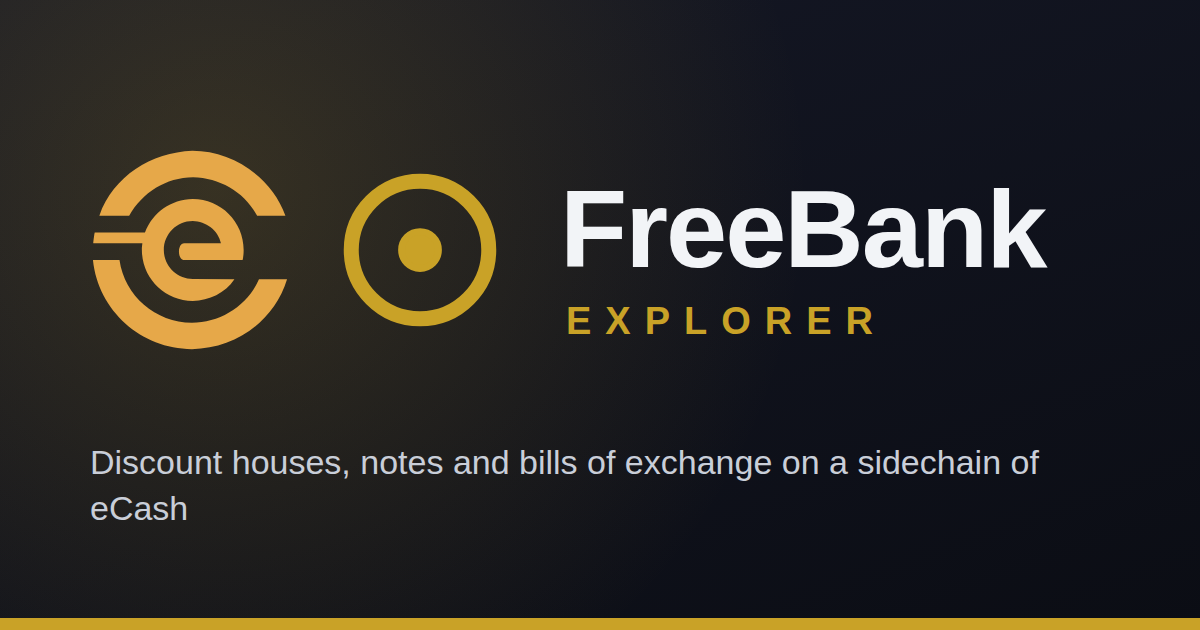
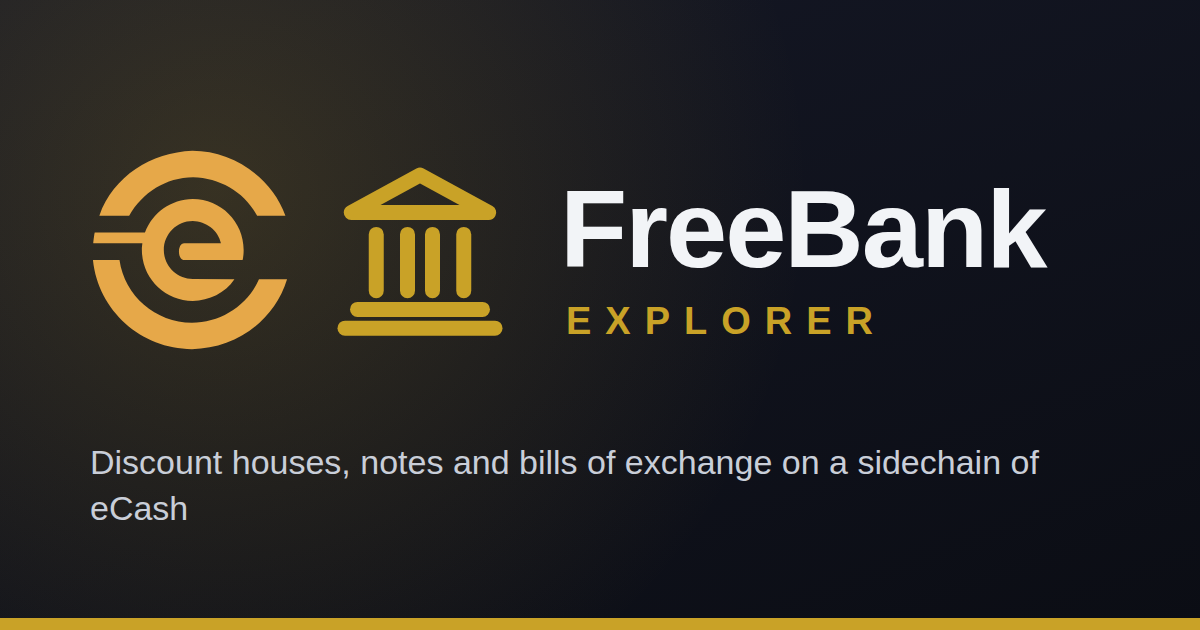
FreeBank: a bank mark (🏦) in place of the sun; space after a house's number
The mark, pool logo and link preview are a bank: a pediment over four
columns on a stepped base. Houses, the dashboard's house list and the gold
page lost the space between two tags (Angular drops whitespace-only text):
a margin instead.

Claude-Session: https://claude.ai/code/session_016ScJL4vwUZDmPaBe3oCFtx

Changed region(s): [[0.2775, 0.2714, 0.4317, 0.5429]]

diff --git a/frontend/src/app/chain/marks.ts b/frontend/src/app/chain/marks.ts
@@ -36,11 +36,8 @@ export const SIDECHAIN_MARKS: Record<string, Pick<ChainProfile, 'mark' | 'markRe
     'M16 11a5 5 0 1 0 0 10 5 5 0 1 0 0-10',
     'M16 3v4M16 25v4M3 16h4M25 16h4M7 7l2.5 2.5M22.5 22.5L25 25M25 7l-2.5 2.5M9.5 22.5L7 25',
   ] },
-  // FreeBank's own mark, the sun ☉ (U+2609, the gold unit of account: freebank-explorer
-  // frontend/src/resources/freebank/freebank-sun.svg: a ring of r 17 and a disc of r 5.5 in 64x64), scaled to fill this
-  // grid as the other marks do: the ring of r 11 as a stroke, the disc as two small stroked circles (r 2.3 and 1.2: a
-  // filled disc of r 3.5, the sun's proportion, in a stroke-only mark)
-  freebank: { mark: ['M16 5a11 11 0 1 1 0 22 11 11 0 1 1 0-22z', 'M16 13.7a2.3 2.3 0 1 1 0 4.6 2.3 2.3 0 1 1 0-4.6z', 'M16 14.8a1.2 1.2 0 1 1 0 2.4 1.2 1.2 0 1 1 0-2.4z'] },
+  // FreeBank: a bank (🏦), a pediment over four columns on a stepped base
+  freebank: { mark: ['M16 4 27 10H5z', 'M9 13.5v9', 'M14 13.5v9', 'M18 13.5v9', 'M23 13.5v9', 'M6 25.5h20', 'M4 28.5h24'] },
   // Flush: water, three waves (a placeholder until Flush has a mark of its own)
   // Flush's own mark, the "tornado" (backbone-flush src/webui/app/src/chain/chain.json brand.mark;
   // ~/skydoge/media/flush/mark/variants.json)

diff --git a/frontend/src/app/chain/modules/freebank/pages/gold.pages.ts b/frontend/src/app/chain/modules/freebank/pages/gold.pages.ts
@@ -49,7 +49,7 @@ const ASSETS_PAGE = 100;
               <tr><td>{{ x.id }}</td><td class="mono" [title]="x.pubkey">{{ fx.shortId(x.pubkey, 8) }}</td>
                 <td><a [routerLink]="['/tx', x.bondtxid]" [fragment]="'vout=' + x.bondvout" class="mono">{{ fx.shortId(x.bondtxid, 6) }}:{{ x.bondvout }}</a></td>
                 <td><a [routerLink]="['/block', x.bondheight]">{{ x.bondheight | number }}</a></td>
-                <td>@if (x.lastsubmitheight) {<a [routerLink]="['/block', x.lastsubmitheight]">{{ x.lastsubmitheight | number }}</a> <span class="hint">{{ x.blockssincesubmit | number }} blocks ago</span>} @else {<span class="muted">never</span>}</td>
+                <td>@if (x.lastsubmitheight) {<a [routerLink]="['/block', x.lastsubmitheight]">{{ x.lastsubmitheight | number }}</a><span class="hint ms-2">{{ x.blockssincesubmit | number }} blocks ago</span>} @else {<span class="muted">never</span>}</td>
                 <td>@if (x.unbondrequestheight) {since {{ x.unbondrequestheight | number }}} @else {<span class="muted">–</span>}</td></tr>
             } @empty {<tr><td colspan="6" class="empty">No submitter has bonded yet.</td></tr>}
           </tbody></table>

diff --git a/frontend/src/app/chain/modules/freebank/pages/houses.pages.ts b/frontend/src/app/chain/modules/freebank/pages/houses.pages.ts
@@ -52,7 +52,7 @@ function deadline(h: House, tip: number | null): { label: string; late: boolean 
             <tbody>
               @for (h of d.houses; track h.id) {
                 <tr>
-                  <td class="nowrap"><a [routerLink]="['/house', h.id]">#{{ h.id }}</a> <span class="muted">{{ h.classid }}</span></td>
+                  <td class="nowrap"><a [routerLink]="['/house', h.id]">#{{ h.id }}</a><span class="muted ms-2">{{ h.classid }}</span></td>
                   <td class="nowrap">{{ fx.houseType(h.type) }}@if (h.type === 'members') {<span class="muted"> · {{ h.member_records ?? 0 }}</span>}</td>
                   <td class="nowrap"><span class="pill" [ngClass]="fx.statusTone(h.effective_status)" title="Effective status at the tip">{{ fx.houseStatus(h.effective_status) }}</span>
                     @if (h.status !== h.effective_status) {<span class="pill ms-1" title="Stored status">{{ fx.houseStatus(h.status) }}</span>}

diff --git a/frontend/src/app/chain/modules/freebank/views/freebank-widget.component.ts b/frontend/src/app/chain/modules/freebank/views/freebank-widget.component.ts
@@ -85,7 +85,7 @@ export type FreebankWidgetKind = 'freebank-chain' | 'freebank-credit' | 'freeban
             @case ('freebank-houses') {
               <table class="rows"><tbody>
                 @for (h of d.top; track h.id) {
-                  <tr><td><a [routerLink]="['/house', h.id]">#{{ h.id }}</a> <span class="muted">{{ h.classid }}</span></td>
+                  <tr><td><a [routerLink]="['/house', h.id]">#{{ h.id }}</a><span class="muted ms-2">{{ h.classid }}</span></td>
                     <td><span class="pill" [ngClass]="fx.statusTone(h.effective_status)">{{ fx.houseStatus(h.effective_status) }}</span></td>
                     <td class="text-end">{{ fx.ecx(h.activeescrow, 4) }} <span class="muted">ECX</span></td>
                     <td class="text-end" title="Attested reserve ratio">{{ fx.bps(h.attestedratiobps) }}</td></tr>

diff --git a/frontend/src/app/chain/modules/freebank/index.ts b/frontend/src/app/chain/modules/freebank/index.ts
@@ -29,7 +29,7 @@ const SEARCH: [RegExp, string][] = [[/^(?:house|h)\s*#?\s*(\d{1,9})$/i, '/house'
 const freebank: ChainFrontendModule = {
   profile: {
     id: 'freebank', kind: 'freebank', name: 'FreeBank', tagline: 'Discount houses, notes and bills of exchange on a sidechain of eCash',
-    unit: 'ECX', subunit: 'sats', slot: 130, mainchain: false, color: '#c9a227', // FreeBank's gold (the sun of its mark)
+    unit: 'ECX', subunit: 'sats', slot: 130, mainchain: false, color: '#c9a227', // FreeBank's gold
     ...SIDECHAIN_MARKS.freebank,
     blockWeightUnits: 4000000,
   },

diff --git a/chains/previews.py b/chains/previews.py
@@ -15,7 +15,7 @@ CHAINS = {
     'truthcoin': ('Truthcoin', '#7bd88f', 'A prediction market sidechain of eCash', ['M28 16a12 12 0 1 1-24 0 12 12 0 1 1 24 0', 'M10.5 16.5l3.5 3.5 7-7.5'], []),
     'zside': ('zSide', '#f26b9c', 'A shielded sidechain of eCash', ['M16 4l10 4v7c0 6-4 10.5-10 13-6-2.5-10-7-10-13V8z', 'M16 12a3 3 0 0 0-1 5.8V21h2v-3.2A3 3 0 0 0 16 12z'], []),
     'flush': ('Flush', '#7d94ab', 'A sidechain of eCash: its DEX, assets and token launches', ['M4 6h24', 'M8 12.5h17', 'M12 19h10', 'M15 25.5h4'], []),
-    'freebank': ('FreeBank', '#c9a227', 'Discount houses, notes and bills of exchange on a sidechain of eCash', ['M16 5a11 11 0 1 1 0 22 11 11 0 1 1 0-22z', 'M16 13.7a2.3 2.3 0 1 1 0 4.6 2.3 2.3 0 1 1 0-4.6z', 'M16 14.8a1.2 1.2 0 1 1 0 2.4 1.2 1.2 0 1 1 0-2.4z'], []),
+    'freebank': ('FreeBank', '#c9a227', 'Discount houses, notes and bills of exchange on a sidechain of eCash', ['M16 4 27 10H5z', 'M9 13.5v9', 'M14 13.5v9', 'M18 13.5v9', 'M23 13.5v9', 'M6 25.5h20', 'M4 28.5h24'], []),
     'coinshift': ('Coinshift', '#ff8a3d', 'A swap sidechain of eCash', ['M7 16a9 9 0 0 1 15-6.7', 'M22 5v5h-5', 'M25 16a9 9 0 0 1-15 6.7', 'M10 27v-5h5'], []),
 }
 
